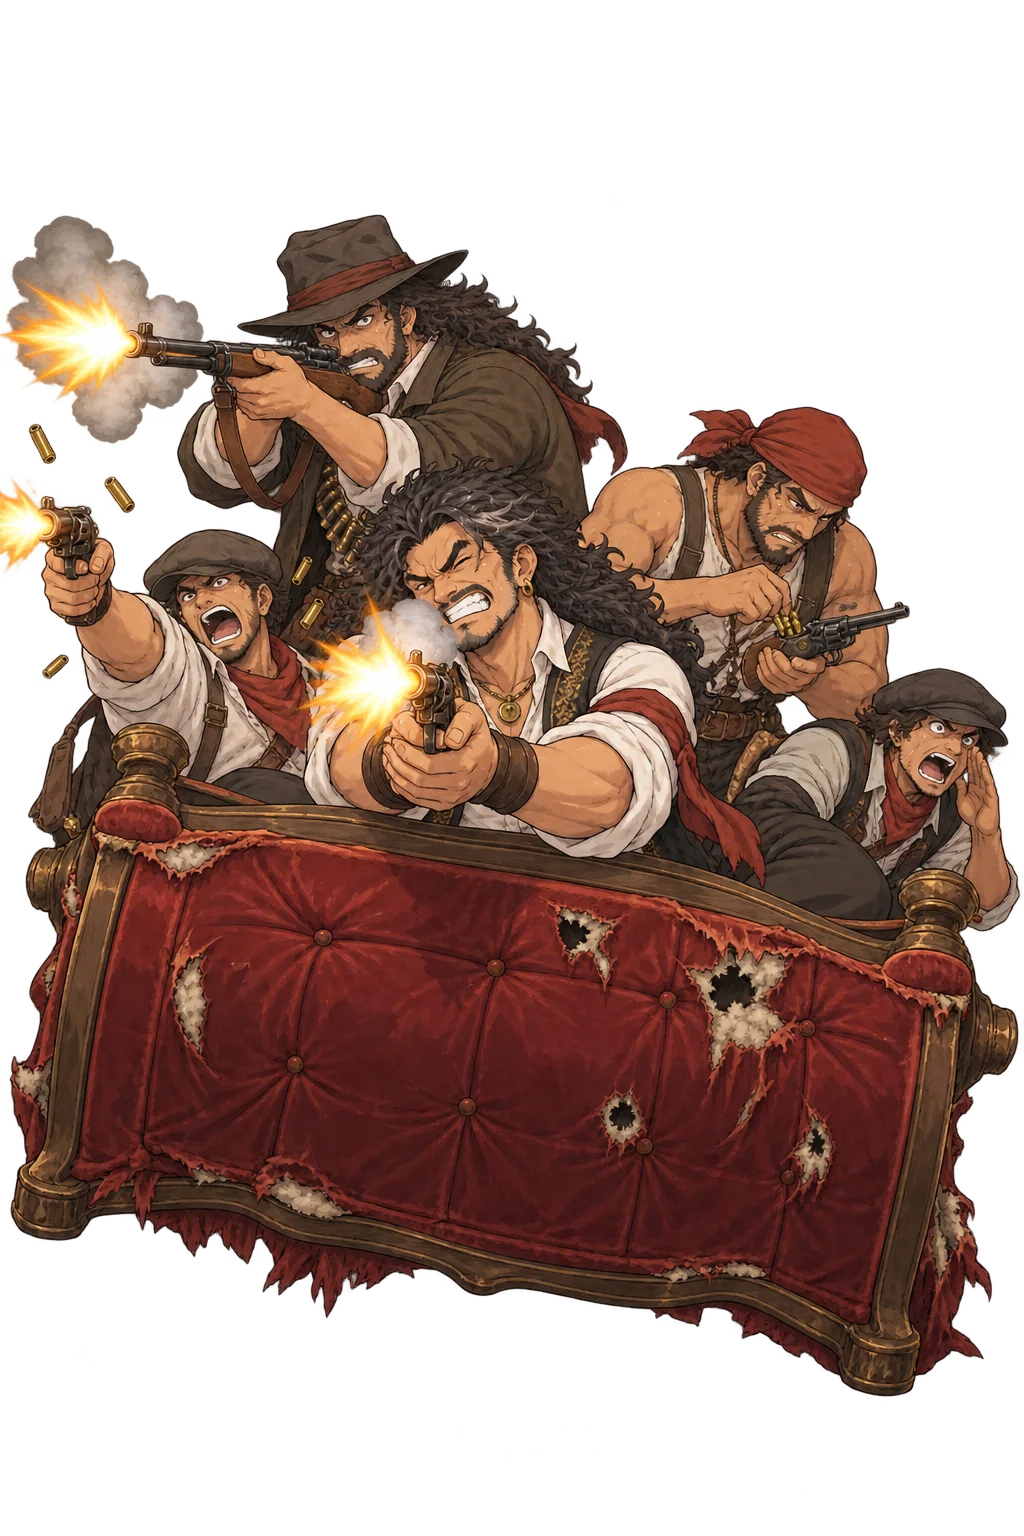
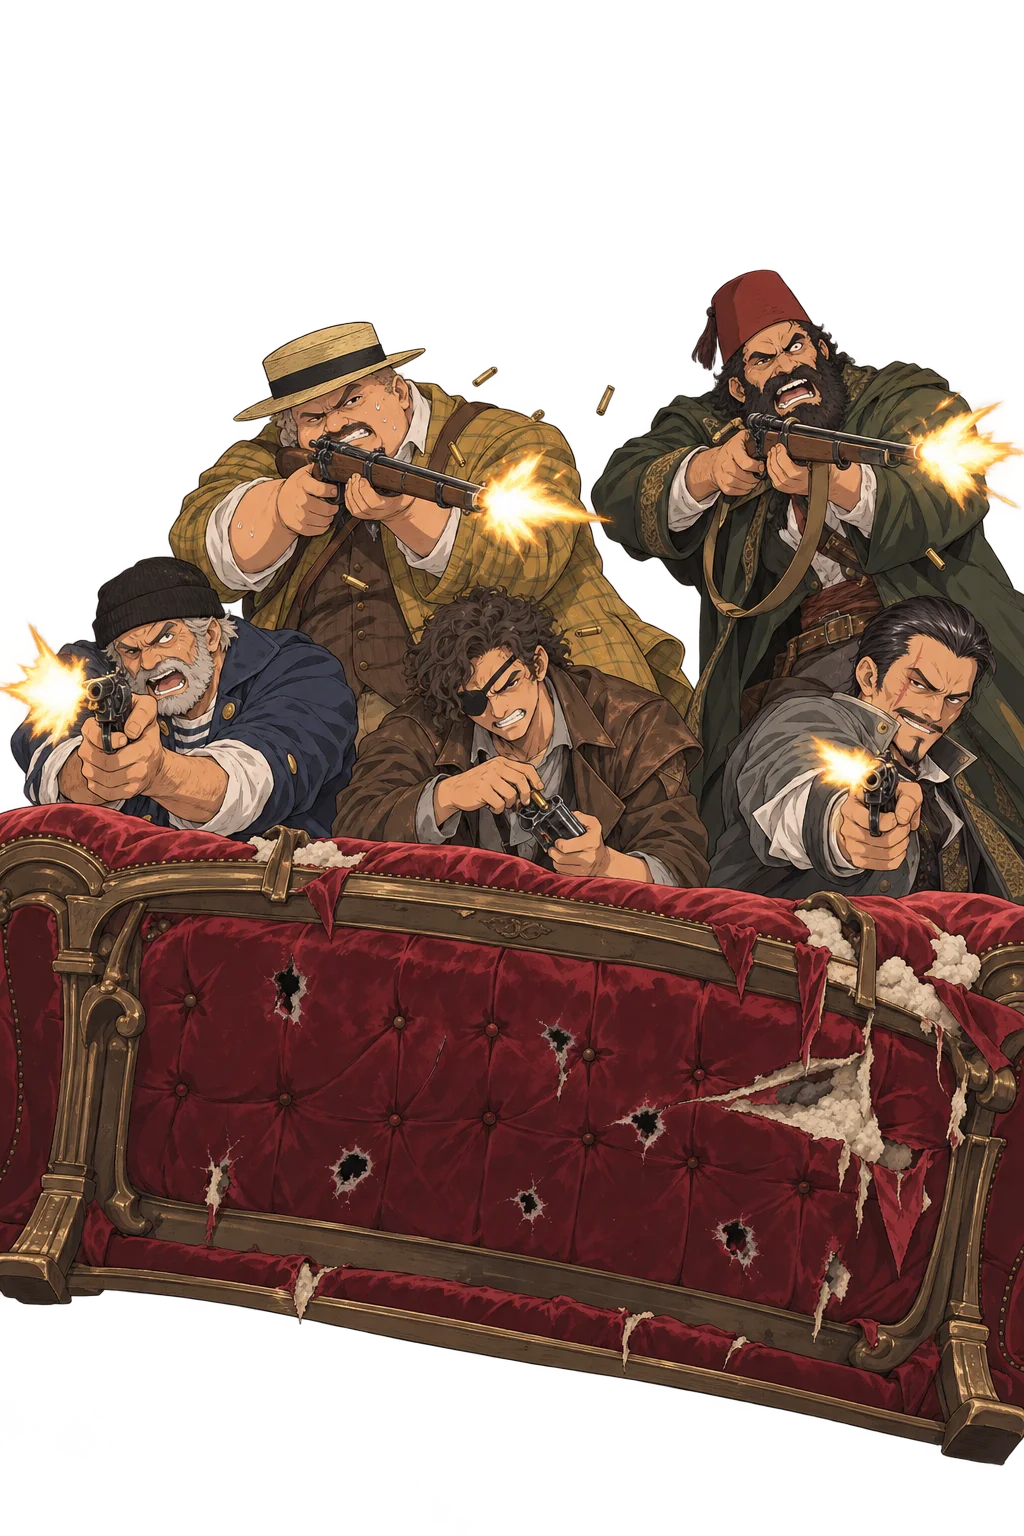
art(惡棍系): man_thug_squad v2 —— 五個全新角色、沙發超寬（同名覆蓋，v1 進回收區）

diff --git a/resources/enemy/_thug_spec.md b/resources/enemy/_thug_spec.md
@@ -60,3 +60,7 @@
 - 09-27：**`man_thug_squad`**（Ray：「惡棍系列，四五個人，有的躲掩體翻過來的沙發，向主角射擊」）✔ 5 人躲在打滿彈孔的絲絨沙發後：中間雙手握槍開火／左邊探身亂射／後排步槍瞄準／紅頭巾裝彈／右邊鴨舌帽大喊。真 alpha、近白 0.0%。
   ⚠ 左緣的槍口火光貼邊（0%），人物本體沒被裁。整群當一個敵人（§5 複數敵人）。
   ⚠ 畫風參考改用 `_originals/enemy/man_thug_dual.png`＋`man_thug_rifle.png` —— 原本的 `resources/si/npc/ssophia_si_thug.png` **已經不見**（原位、回收區都沒有，也從沒入版控），不是美術刪的。
+- 09-27：**`man_thug_squad` v2**（Ray：「squad 中的角色不要跟現有的 thug 系列有任何重疊，沙發可以再寬點，超出畫面也沒關係」）✔ 同名覆蓋，第一版進 `_recycle/`（原稿 `_originals/enemy/_man_thug_squad_v1_overlap.png`）。
+  五個人全新：老水手（毛線帽、條紋水手衫、左輪）／油頭刀疤臉（立領外套、小手槍）／草帽胖子（格子外套、步槍）／眼罩捲髮青年（皮夾克、裝彈）／氈帽大鬍子（長大衣、卡賓槍）。沙發超寬、左右超出畫面。真 alpha、近白 0.0%。
+  ⚠ 作法：提示詞裡**點名禁掉現有系列的招牌**（鴨舌帽／寬簷帽／圓頂禮帽／光頭／長捲髮配繡花背心／紅腰巾／紅頸巾／吊帶），並逐人寫出新的識別特徵；參考圖用 `_thug_all6_sheet.jpg`，明寫「畫風照它，人一個都不能像」。
+  ⚠ 程式端還沒引用 `man_thug_squad` ⇒ 同名覆蓋不用跳 `?v=`／`ASSET_VER`。
